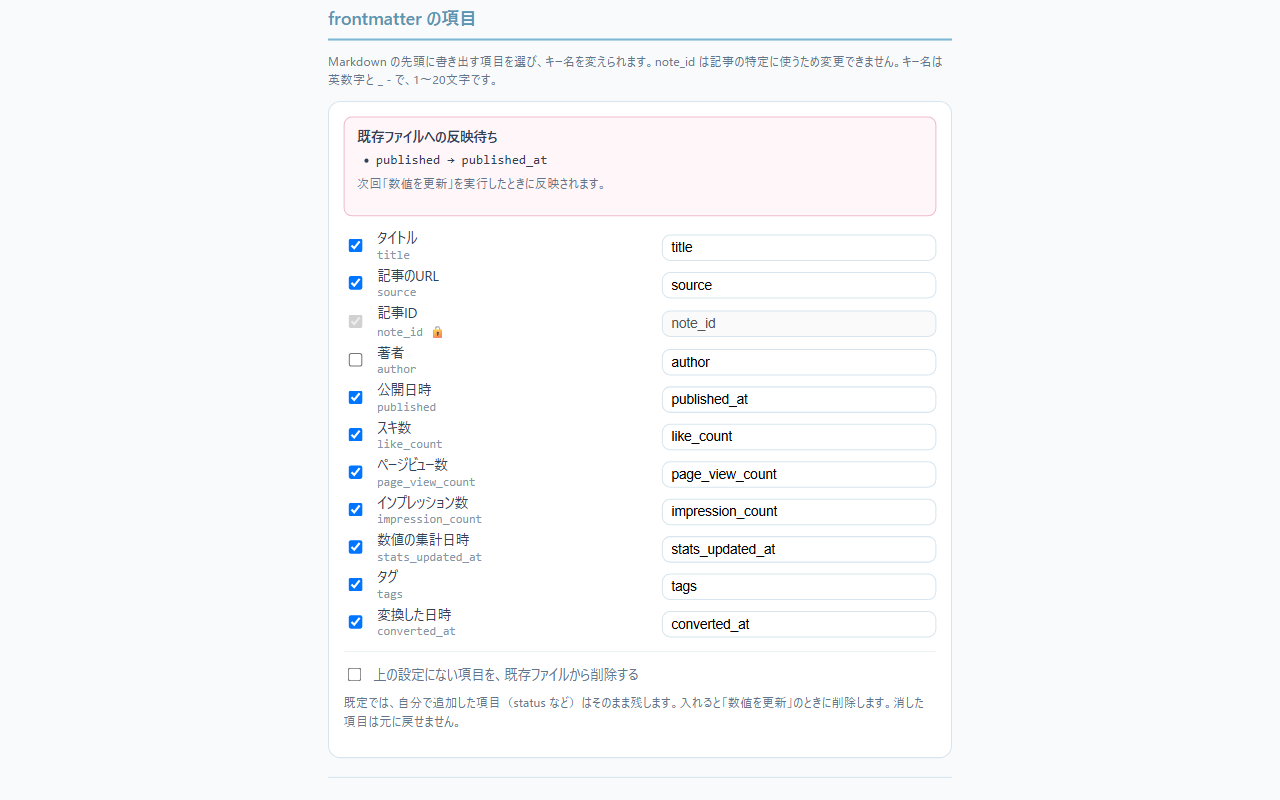
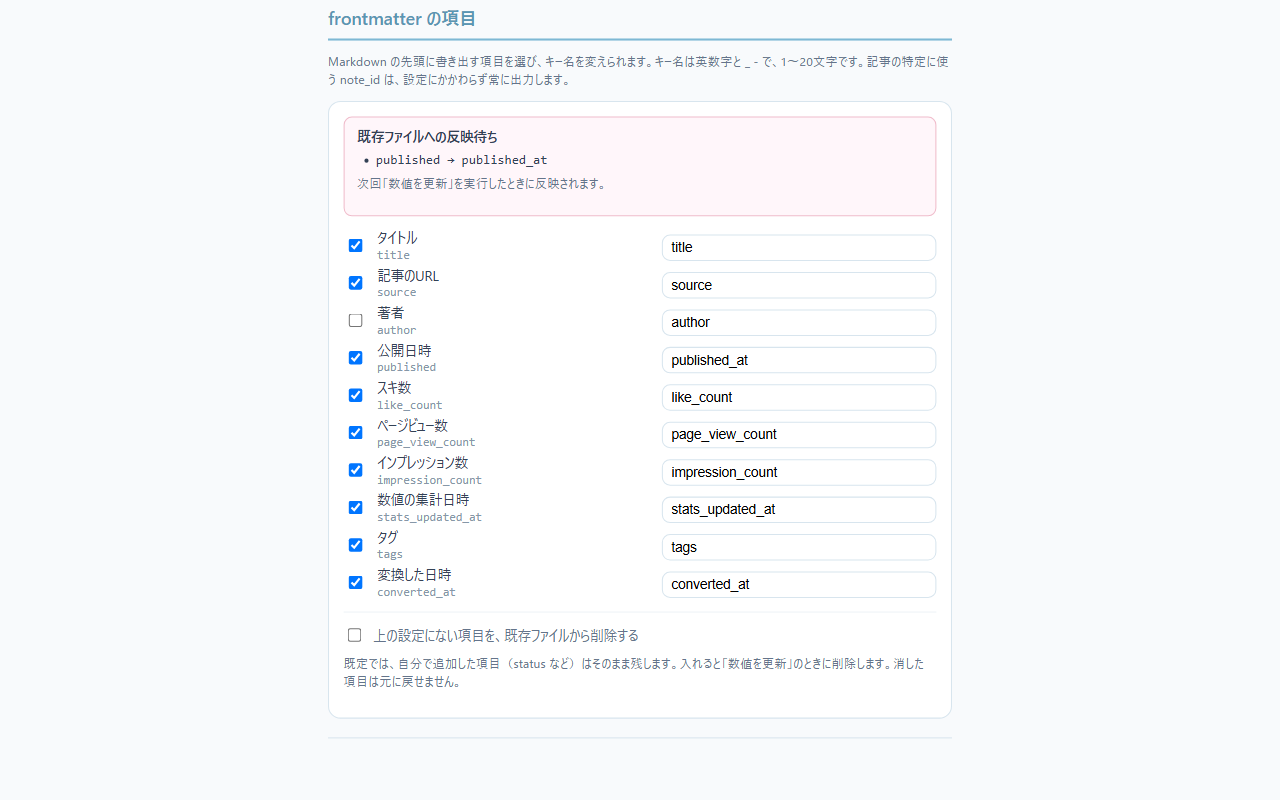
note_id を設定一覧から外し、ダイアログの案内をフォルダ単位にする
- 変更できない note_id を一覧に並べても、選べると誤解させるだけなので出さない。
  常に出力されることは節の説明に書く
- 確認ダイアログの「キー名の変更も反映します」を、選んだフォルダがまだ
  未適用のときだけ出す。反映済みのフォルダでは今回の実行で何も変わらないため

途中、置換が設定の取り込み側のループに当たっていた。テストが拾ったので
描画側へ当て直した。

Changed region(s): [[0.25, 0.375, 0.7188, 0.9062], [0.5, 0.0625, 0.75, 0.0938], [0.25, 0.0938, 0.4375, 0.125]]

diff --git a/options/options.js b/options/options.js
@@ -1382,8 +1382,14 @@ const runLikeCountUpdate = async ({ canRequestPermission = true } = {}) => {
       return;
     }
 
-    // 保留中のキー名の変更を、確認ダイアログで見せる文字列にする。
-    const pendingChanges = NtmFrontmatterKeys.listPendingChanges(frontmatterKeyConfig);
+    /*
+     * 保留中のキー名の変更を、確認ダイアログで見せる文字列にする。
+     * すでにこのフォルダへ反映済みなら、今回の実行では何も変わらないので出さない。
+     */
+    const appliedPresets = new Set(frontmatterKeyConfig.pendingAppliedPresets ?? []);
+    const pendingChanges = appliedPresets.has(presetId)
+      ? []
+      : NtmFrontmatterKeys.listPendingChanges(frontmatterKeyConfig);
     const keyChanges = pendingChanges
       .map((change) =>
         change.type === "disable"
@@ -1633,7 +1639,11 @@ const renderFrontmatterKeys = () => {
   }
   frontmatterKeyListEl.innerHTML = "";
 
-  NtmFrontmatterKeys.KEY_DEFS.forEach((def) => {
+  /*
+   * 変更できない項目（note_id）は一覧に出さない。操作できないものが並んでいても
+   * 選べると誤解させるだけで、常に出力されることは節の説明に書いてある。
+   */
+  NtmFrontmatterKeys.KEY_DEFS.filter((def) => !def.fixed).forEach((def) => {
     const entry = frontmatterKeyConfig[def.id];
     const row = document.createElement("li");
     row.className = `frontmatter-key-row${def.fixed ? " is-fixed" : ""}`;

diff --git a/lib/i18n.js b/lib/i18n.js
@@ -324,7 +324,7 @@
 
       "options.frontmatter.title": "frontmatter の項目",
       "options.frontmatter.hint":
-        "Markdown の先頭に書き出す項目を選び、キー名を変えられます。note_id は記事の特定に使うため変更できません。キー名は英数字と _ - で、1〜20文字です。",
+        "Markdown の先頭に書き出す項目を選び、キー名を変えられます。キー名は英数字と _ - で、1〜20文字です。記事の特定に使う note_id は、設定にかかわらず常に出力します。",
       "options.frontmatter.label.title": "タイトル",
       "options.frontmatter.label.source": "記事のURL",
       "options.frontmatter.label.note_id": "記事ID",
@@ -687,7 +687,7 @@
 
       "options.frontmatter.title": "Frontmatter keys",
       "options.frontmatter.hint":
-        "Choose which keys are written at the top of the Markdown, and rename them. note_id cannot be changed because it identifies the article. Names are 1-20 characters, letters, digits, _ and -.",
+        "Choose which keys are written at the top of the Markdown, and rename them. Names are 1-20 characters, letters, digits, _ and -. note_id identifies the article and is always written, regardless of these settings.",
       "options.frontmatter.label.title": "Title",
       "options.frontmatter.label.source": "Article URL",
       "options.frontmatter.label.note_id": "Article ID",

diff --git a/options/options.html b/options/options.html
@@ -182,7 +182,7 @@
     <section class="settings-section" aria-labelledby="frontmatterSectionTitle">
       <h2 id="frontmatterSectionTitle" class="settings-section-title" data-i18n="options.frontmatter.title">frontmatter の項目</h2>
       <p class="hint inline" data-i18n="options.frontmatter.hint">
-        Markdown の先頭に書き出す項目を選び、キー名を変えられます。note_id は記事の特定に使うため変更できません。
+        Markdown の先頭に書き出す項目を選び、キー名を変えられます。記事の特定に使う note_id は、設定にかかわらず常に出力します。
       </p>
       <div class="settings-card">
         <div id="frontmatterPending" class="frontmatter-pending hidden" role="status" aria-live="polite">

diff --git a/README.md b/README.md
@@ -54,7 +54,7 @@
 | 出力の ON/OFF | 項目ごとに、書き出すかどうかを選べます |
 | キー名の変更 | 例: `published` → `published_at`。読込側（Dataview など）の命名規則に合わせられます |
 
-- **`note_id` だけは変更できません。** 記事の特定と、書き込み直前の「このファイルはまだ同じ記事か」の照合に使っているためです
+- **`note_id` は設定一覧に出ません。** 記事の特定と、書き込み直前の「このファイルはまだ同じ記事か」の照合に使うため、設定にかかわらず常に出力します
 - キー名は **1〜20 文字・英字か `_` 始まり・英数字と `_` `-`** です。日本語を許さないのは、見た目が同じでも別物になる文字（`グ` の合成/非合成）があり、気づけない二重化を招くためです
 - **並び順は名前ではなく項目に紐づきます。** `tags` を `note_tags` に変えても位置は動きません
 - `aliases` など Obsidian が特別扱いする名前へ変えると警告が出ます（禁止はしません）

diff --git a/docs/manual-qa.md b/docs/manual-qa.md
@@ -150,7 +150,8 @@
 
 ## frontmatter の項目
 
-- [ ] 11 項目が既定名で並び、`note_id` だけチェックも入力欄も操作できない
+- [ ] 10 項目が既定名で並び、`note_id` は一覧に出ない（ファイルには出力される）
+- [ ] 反映済みのフォルダで「数値を更新」を実行すると、確認ダイアログにキー名の変更の案内が出ない
 - [ ] キー名を変えると保存され、「反映待ち」に `published → published_at` のように出る
 - [ ] 出力を止めると「反映待ち」に `author → 出力しない` と出る
 - [ ] 保存先フォルダが未設定でも「反映待ち」が表示される
